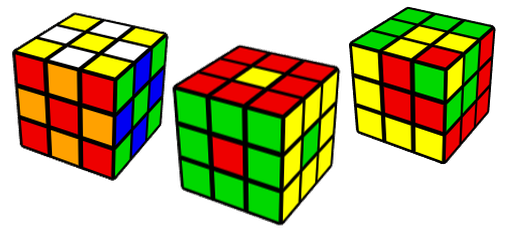
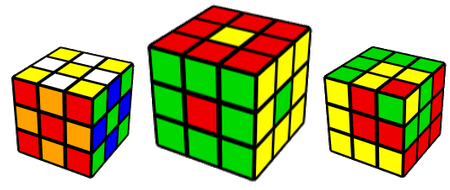
style(scramble): clarify card hierarchy and simplify artwork

diff --git a/core/packages/client/app/[lang]/scramble/page.tsx b/core/packages/client/app/[lang]/scramble/page.tsx
@@ -3,7 +3,7 @@
 /**
  * /scramble — 打乱工具入口。
  * 生成和求解为主要入口；花式与跨项目批量求解次之，其余专项工具使用紧凑卡片。
- * 桌面使用六列便当盒，窄屏按相同优先级排列为两列。
+ * 桌面分为两张主卡、两张中卡和四张专业工具卡；窄屏按同一顺序排列为两列。
  */
 import Link from '@/components/AppLink';
 import BackHome from '@/components/BackHome';
@@ -53,6 +53,16 @@ export default function ScrambleHubPage() {
               '--scramble-card-art': `url("/scramble-card-art/${c.area}.webp")`,
             } as CSSProperties}
           >
+            <span className="scramble-hub-art" aria-hidden="true">
+              <span className="scramble-hub-art-image" />
+              {c.area === 'generate' && (
+                <span className="scramble-hub-art-formula">
+                  {"F B2 R B' U2 R B' U B' R2 U2 D2 F' R2 D2 F U2 B' D2 F' U"}
+                </span>
+              )}
+              {c.area === 'hardest' && <span className="scramble-hub-art-note">H* 20</span>}
+              {c.area === 'subsolver' && <span className="scramble-hub-art-note">U / R / F</span>}
+            </span>
             <div className="scramble-hub-card-title">{tr(c).title}</div>
           </Link>
         ))}
@@ -79,80 +89,83 @@ const INLINE_CSS = `
 }
 .scramble-hub-page .scramble-hub-grid {
   display: grid;
-  grid-template-columns: repeat(6, minmax(0, 1fr));
-  grid-template-rows: minmax(13rem, auto) repeat(2, minmax(5.5rem, auto));
+  grid-template-columns: repeat(4, minmax(0, 1fr));
   grid-template-areas:
-    "generate generate generate solve solve solve"
-    "pattern pattern batch batch symmetry hardest"
-    "pattern pattern batch batch mcc subsolver";
+    "generate generate solve solve"
+    "pattern pattern batch batch"
+    "symmetry hardest mcc subsolver";
   gap: 0.75rem;
 }
 .scramble-hub-page .scramble-hub-card {
-  position: relative;
-  isolation: isolate;
-  overflow: hidden;
   display: flex;
-  align-items: flex-end;
+  flex-direction: column;
+  gap: 1rem;
   min-width: 0;
-  padding: 1rem;
+  padding: 1.25rem;
   border: 1px solid var(--border-default);
   border-radius: 12px;
   color: var(--foreground);
   text-decoration: none;
 }
-/* Decorative cutouts retain their own alpha; the lower fade leaves room for labels. */
-.scramble-hub-page .scramble-hub-card::before {
-  content: '';
-  position: absolute;
-  inset: 0;
-  z-index: -1;
+/* Illustration and title occupy separate rows; artwork never fades across text. */
+.scramble-hub-page .scramble-hub-art {
+  display: flex;
+  flex-direction: column;
+  align-items: center;
+  justify-content: center;
+  gap: 0.5rem;
+  height: 5.75rem;
+  min-width: 0;
   pointer-events: none;
+  user-select: none;
+}
+.scramble-hub-page .scramble-hub-art-image {
+  flex: 1;
+  width: 100%;
+  min-height: 0;
   background-image: var(--scramble-card-art);
   background-repeat: no-repeat;
-  background-position: center top;
-  background-size: cover;
-  opacity: 0.46;
-  mask-image: linear-gradient(to bottom, black 25%, transparent 85%);
+  background-position: center;
+  background-size: contain;
+  opacity: 0.9;
 }
-.scramble-hub-page .scramble-hub-card--generate::before {
-  background-position: right 0.75rem top 0.75rem;
-  background-size: auto 105%;
+.scramble-hub-page .scramble-hub-card--primary .scramble-hub-art {
+  height: 11rem;
 }
-.scramble-hub-page .scramble-hub-card--solve::before {
-  background-position: right 0.75rem top -0.75rem;
-  background-size: auto 125%;
-  opacity: 0.58;
-  mask-image: linear-gradient(120deg, transparent 8%, black 70%);
+.scramble-hub-page .scramble-hub-card--secondary .scramble-hub-art {
+  height: 8rem;
 }
-.scramble-hub-page .scramble-hub-card--pattern::before {
-  background-position: center 0.75rem;
-  background-size: 100% auto;
-  opacity: 0.58;
+.scramble-hub-page .scramble-hub-card--generate .scramble-hub-art-image {
+  max-height: 7rem;
 }
-.scramble-hub-page .scramble-hub-card--batch::before {
-  background-position: center 0.75rem;
-  background-size: 92% auto;
+.scramble-hub-page .scramble-hub-card--batch .scramble-hub-art-image {
+  max-height: 6rem;
 }
-.scramble-hub-page .scramble-hub-card--symmetry::before {
-  background-position: left 0.5rem top 0.5rem;
-  background-size: auto 88%;
+.scramble-hub-page .scramble-hub-card--symmetry .scramble-hub-art-image {
+  max-width: 12rem;
+  max-height: 4.25rem;
 }
-.scramble-hub-page .scramble-hub-card--hardest::before {
-  background-position: center 0.25rem;
-  background-size: 110% auto;
+.scramble-hub-page .scramble-hub-art-formula,
+.scramble-hub-page .scramble-hub-art-note {
+  color: var(--muted-foreground);
+  font-family: ui-monospace, monospace;
+  font-variant-numeric: tabular-nums;
+  line-height: 1.5;
+  text-align: center;
 }
-.scramble-hub-page .scramble-hub-card--mcc::before {
-  background-position: left 0.5rem top 0.5rem;
-  background-size: auto 155%;
+.scramble-hub-page .scramble-hub-art-formula {
+  max-width: 100%;
+  font-size: 0.75rem;
 }
-.scramble-hub-page .scramble-hub-card--subsolver::before {
-  background-position: right -0.25rem top -0.25rem;
-  background-size: auto 130%;
+.scramble-hub-page .scramble-hub-art-note {
+  font-size: 0.8125rem;
 }
-.scramble-hub-page .scramble-hub-card:hover {
+.scramble-hub-page .scramble-hub-card:hover,
+.scramble-hub-page .scramble-hub-card:focus-visible {
   border-color: var(--accent);
 }
-.scramble-hub-page .scramble-hub-card:hover .scramble-hub-card-title {
+.scramble-hub-page .scramble-hub-card:hover .scramble-hub-card-title,
+.scramble-hub-page .scramble-hub-card:focus-visible .scramble-hub-card-title {
   color: var(--accent);
 }
 .scramble-hub-page .scramble-hub-card:focus-visible {
@@ -163,35 +176,34 @@ const INLINE_CSS = `
   transform: translateY(1px);
 }
 .scramble-hub-page .scramble-hub-card-title {
-  font-size: 1rem;
+  margin-top: auto;
+  font-size: 1.125rem;
   font-weight: 600;
   line-height: 1.3;
   overflow-wrap: anywhere;
 }
-.scramble-hub-page .scramble-hub-card--primary {
-  padding: 1.5rem;
-}
 .scramble-hub-page .scramble-hub-card--primary .scramble-hub-card-title {
-  font-size: 2rem;
+  font-size: 1.75rem;
 }
 .scramble-hub-page .scramble-hub-card--secondary .scramble-hub-card-title {
-  font-size: 1.25rem;
+  font-size: 1.375rem;
 }
 @media (max-width: 720px) {
   .scramble-hub-page .scramble-hub-grid {
     grid-template-columns: repeat(2, minmax(0, 1fr));
     grid-template-rows: none;
     grid-template-areas: none;
-    grid-auto-rows: minmax(5.5rem, auto);
   }
   .scramble-hub-page .scramble-hub-card { grid-area: auto !important; }
-  .scramble-hub-page .scramble-hub-card--primary { min-height: 10rem; }
-  .scramble-hub-page .scramble-hub-card--secondary { min-height: 8rem; }
+  .scramble-hub-page .scramble-hub-card--primary .scramble-hub-art { height: 8rem; }
+  .scramble-hub-page .scramble-hub-card--secondary .scramble-hub-art { height: 6rem; }
+  .scramble-hub-page .scramble-hub-art-formula { display: none; }
 }
 @media (max-width: 480px) {
   .scramble-hub-page { padding: 1rem 0.75rem 2rem; }
   .scramble-hub-page .scramble-hub-header h1 { font-size: 1.5rem; }
-  .scramble-hub-page .scramble-hub-card--primary { padding: 1rem; }
-  .scramble-hub-page .scramble-hub-card--primary .scramble-hub-card-title { font-size: 1.5rem; }
+  .scramble-hub-page .scramble-hub-card { padding: 1rem; }
+  .scramble-hub-page .scramble-hub-card--primary .scramble-hub-card-title { font-size: 1.375rem; }
+  .scramble-hub-page .scramble-hub-card--secondary .scramble-hub-card-title { font-size: 1.125rem; }
 }
 `;

diff --git a/core/packages/client/public/scramble-card-art/README.md b/core/packages/client/public/scramble-card-art/README.md
@@ -6,14 +6,14 @@ card labels and navigation remain real text in the page component.
 
 | Asset | Source and treatment |
 | --- | --- |
-| `generate.webp` | Image 1: first three scramble rows and their cube nets; remove the table background. |
+| `generate.webp` | Image 1: the first cube net, paired with its scramble as real text on wide screens. |
 | `solve.webp` | Image 2: isolate the cube, preserving the white center sticker. |
-| `pattern.webp` | Images 3, 4, 5: isolate and combine all three pattern cubes. |
-| `batch.webp` | Image 1: six different cube nets arranged as a batch. |
-| `symmetry.webp` | Image 6: crop rotation and reflection symbols into two rows. |
-| `hardest.webp` | Image 7: crop the four examples and remove the page background. |
-| `mcc.webp` | Image 8: crop the upper part of the move-cost table and remove its background. |
-| `subsolver.webp` | Images 2 and 6: combine a partially colored cube with rotation symbols. |
+| `pattern.webp` | Images 3, 4, 5: one central pattern cube with two smaller companions. |
+| `batch.webp` | Image 1: three different cube nets in a single row. |
+| `symmetry.webp` | Image 6: isolate three rotation/reflection diagrams, omitting tiny screenshot labels. |
+| `hardest.webp` | Image 7: the first cube net, paired with its `H* 20` value as real text. |
+| `mcc.webp` | Image 8: the first three action rows and their current costs, omitting the other columns. |
+| `subsolver.webp` | Image 2: a partially colored cube, paired with `U / R / F` as real text. |
 
 `batch` and `subsolver` are suggested illustrations using the supplied material;
 they can be replaced independently without changing the navigation or layout.
@@ -21,5 +21,8 @@ they can be replaced independently without changing the navigation or layout.
 Background removal uses edge-connected neutral pixels so white stickers enclosed
 by cube outlines remain opaque. Screenshot text also has its white counters
 cleared; cube-net areas retain their enclosed white stickers. Page CSS controls
-opacity, framing, and the mask fade that keeps the card labels readable. The
-card itself continues to use the shared `panel` surface and theme tokens.
+framing and light translucency. Illustrations use `contain` in their own layout
+row, above the labels, without gradient masks or overlap. Desktop layout uses
+two primary cards, two medium cards, then four compact cards; small screens use
+two columns in the same reading order. The cards continue to use the shared
+`panel` surface and theme tokens.
